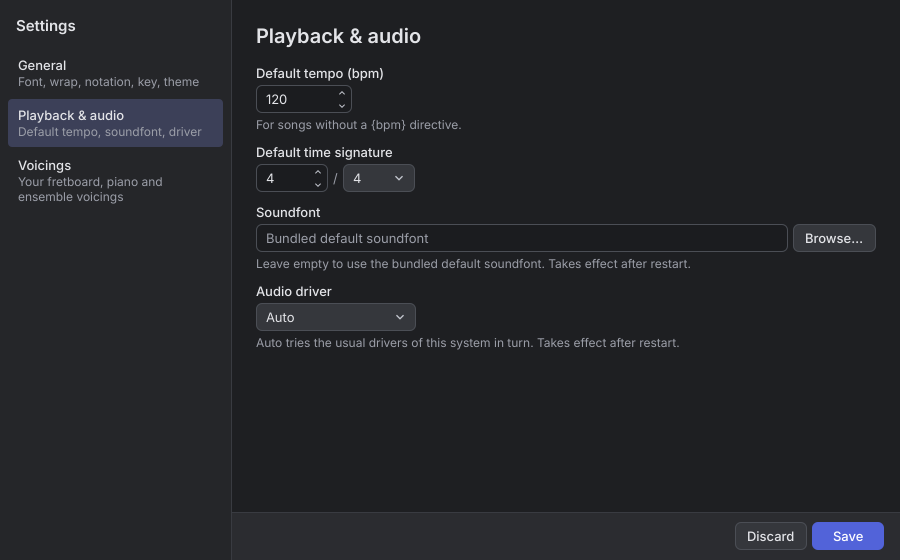
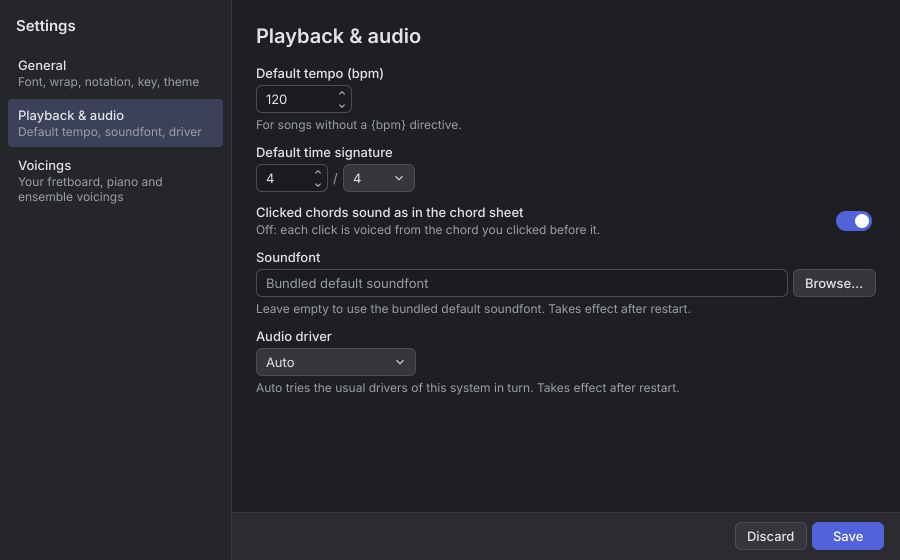
Settings › Playback & audio: "Clicked chords sound as in the chord sheet" switch ("Off: each click is voiced from the chord you clicked before it."), saved with the other settings; the guide says how a clicked chord sounds (Voicing Options) and what the setting does, for both editions (|clicked| ter

Changed region(s): [[0.28, 0.3643, 0.7778, 0.6982], [0.8711, 0.3643, 0.9956, 0.5464]]

diff --git a/desktop/chordnotepad_desktop/qml/app/SettingsWindow.qml b/desktop/chordnotepad_desktop/qml/app/SettingsWindow.qml
@@ -375,6 +375,13 @@ ApplicationWindow {
                             }
                         }
                         ErrorText { text: win.numberErrors.time_signature_beats || "" }
+                        SwitchRow {
+                            objectName: "setting:click_plays_chart_voicing"
+                            title: "Clicked chords sound as in the chord sheet"
+                            help: "Off: each click is voiced from the chord you clicked before it."
+                            checked: !!win.values.click_plays_chart_voicing
+                            onToggled: (on) => win.settings.setValue("click_plays_chart_voicing", on)
+                        }
                         FieldLabel { text: "Soundfont" }
                         RowLayout {
                             Layout.maximumWidth: win.formWidth

diff --git a/tests/qt/test_qt_settings.py b/tests/qt/test_qt_settings.py
@@ -205,6 +205,44 @@ def test_discard_drops_every_change(settings):
     assert settings.model.values["word_wrap"] is False and not settings.model.hasChanges
 
 
+CLICK_SETTING = "setting:click_plays_chart_voicing"
+
+
+def test_the_clicked_chords_switch_is_on_the_playback_page_and_saves(settings):
+    settings.open("playback")
+    settings.qtbot.waitUntil(lambda: settings.window.property("page") == "playback", timeout=1000)
+    switch = settings.item(CLICK_SETTING)
+    # The page lays out once it is shown.
+    settings.qtbot.waitUntil(lambda: switch.mapToScene(QPointF(0, 0)).y() > 0, timeout=2000)
+    assert switch.property("title") == "Clicked chords sound as in the chord sheet"
+    assert switch.property("help") == "Off: each click is voiced from the chord you clicked before it."
+    assert switch.property("checked") is True and settings.config("click_plays_chart_voicing") is True
+    settings.click(CLICK_SETTING)
+    settings.qtbot.waitUntil(lambda: settings.model.hasChanges, timeout=2000)
+    assert settings.config("click_plays_chart_voicing") is True
+    settings.save()
+    assert settings.config("click_plays_chart_voicing") is False
+    assert settings.saved()["click_plays_chart_voicing"] is False
+    # Opened again: off.
+    settings.open("playback")
+    assert settings.model.values["click_plays_chart_voicing"] is False
+    assert settings.item(CLICK_SETTING).property("checked") is False
+
+
+def test_a_saved_off_shows_off_after_a_restart(qapp, qtbot, tmp_path):
+    write_config(tmp_path, show_quick_start_on_startup=False, click_plays_chart_voicing=False)
+    harness = QtAppHarness(qapp, tmp_path).start()
+    qtbot.waitUntil(lambda: harness.window.property("contentReady") is True, timeout=3000)
+    s = Settings(harness, qtbot).open("playback")
+    try:
+        assert s.model.values["click_plays_chart_voicing"] is False
+        assert s.item(CLICK_SETTING).property("checked") is False
+        assert harness.app.core.config.get("click_plays_chart_voicing") is False
+    finally:
+        harness.shutdown()
+        qtbot.wait(1)
+
+
 def test_q8_a_typed_number_out_of_range_is_marked_and_save_waits_for_it(settings):
     assert settings.config("max_recent_files") == 10
     settings.model.setNumber("max_recent_files", "60", True)

diff --git a/help/conf.py b/help/conf.py
@@ -45,6 +45,7 @@ help_terms = {
     'click': ('click', 'tap'),
     'Click': ('Click', 'Tap'),
     'clicks': ('clicks', 'taps'),
+    'clicked': ('clicked', 'tapped'),
     'clicking': ('clicking', 'tapping'),
     'Clicking': ('Clicking', 'Tapping'),
     'settings': ('**☰ → Settings...**', '**☰ → Settings**'),

diff --git a/help/playback.rst b/help/playback.rst
@@ -292,6 +292,8 @@ This works even when playback is stopped. Uses include:
    A tap between chords does nothing while a song plays.
 
 
+.. _voicing-options:
+
 Voicing Options
 ===============
 
@@ -346,6 +348,17 @@ worked out before the first note (the Voicing control is greyed out until you
 pause). Pause, pick another voicing, and press Play: the song starts again from
 the chord where you paused, with the new voicing. The instrument can change at
 any time, including during playback.
+
+A chord you |click| in the text sounds the way the song voices it: the notes
+the chord sheet shows for it, the same ones ▶ plays, every time you |click|
+it. A chord that a ``{loop}`` repeats can be voiced differently in each pass;
+it sounds as in the pass a paused song is in, and otherwise as in its first
+pass. Right after an edit, until the chord sheet has caught up with it (or
+while the chord sheet is hidden and hasn't drawn the song), a |click| falls
+back to voicing the chord from the one you |clicked| before it. To have
+every |click| work that way, a new voicing each time, turn off **Clicked
+chords sound as in the chord sheet** in the Playback settings (see
+:doc:`settings`).
 
 .. only:: android
 

diff --git a/help/settings.rst b/help/settings.rst
@@ -172,8 +172,8 @@ General
 .. platform-figure:: settings-playback
    :platforms: desktop
    :alt: The Playback and audio page: Default tempo 120, Default time
-         signature 4 over 4, a Soundfont field with Browse, and an Audio
-         driver box.
+         signature 4 over 4, the Clicked chords sound as in the chord sheet
+         switch, on, a Soundfont field with Browse, and an Audio driver box.
 
    The Playback & audio page.
 
@@ -184,6 +184,14 @@ General
 **Default time signature**
    The time signature a song starts with when it has no ``{time}`` directive
    before its first chord.
+
+**Clicked chords sound as in the chord sheet**
+   On (the default), a chord you |click| in the text plays the notes the
+   chord sheet shows for it, the ones ▶ plays, so it sounds the same every
+   time and matches the sheet (see :ref:`voicing-options`).
+   Off, each |click| is voiced from the chord you |clicked| before it, so the
+   same chord can sound different from one |click| to the next. Takes effect
+   at the next |click|.
 
 Only Settings changes the defaults (the key, tempo and time signature). The
 values :plat:`in the player bar|in the song pill's Playback settings` belong to the
